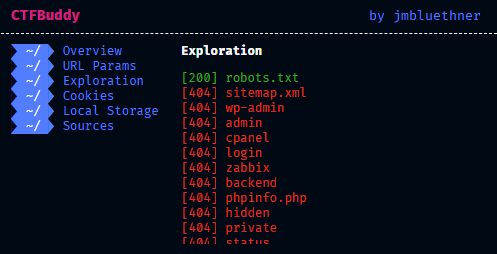
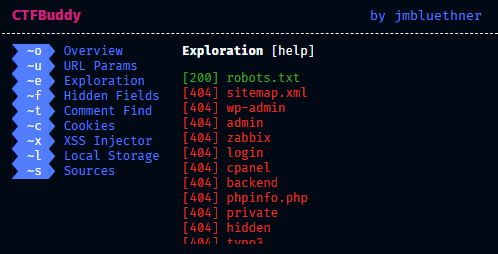
docs

diff --git a/src/index.html b/src/index.html
@@ -5,6 +5,9 @@
         <meta lang="en">
     </head>
     <body>
+        <input type="hidden">
+        <input type="hidden">
+        <input type="hidden">
         <div id="main"></div>
         <script src="./lib/vue/vue.global.js"></script>
         <script src="./lib/vue/vue-router.global.js"></script>

diff --git a/README.md b/README.md
@@ -5,9 +5,7 @@ _by jmbluethner_
 
 ---
 
-<img src="./docs/ss1.png">
-
-[[_TOC_]]
+<img src="./docs/montage.png">
 
 # Project Aim
 
@@ -19,14 +17,20 @@ In order to make those basic tasks a bit easier and to save you from repeating t
 # Features
 
 - One-Click-Analytics tools for
-  - Automatic Sub-Page exploration for common pages, such as `robots.txt`, `wp-admin` and so on.
-  - Automatic reporting and analysis for URL (GET) Parameters.
+  - Sub-Page exploration for common pages, such as `robots.txt`, `wp-admin` and so on.
+  - Reporting and analysis for URL (GET) Parameters.
+  - Finder for hidden input fields.
   - Detailed Cookie analysis.
   - Detailed Local Storage analysis.
   - Checks for all embedded sources, such as JS.
   - XSS Injection tester.
-- Stylish CLI look
+  - HTML Comment finder.
+- Stylish CLI look.
+- Menu navigation using keyboard shortcuts.
+- Explaining help texts for each module.
+- Solid codebase built on <a href="https://vuejs.org/">Vue.JS</a>.
 
 ---
 
-_Developed with ♥ and ☕ by jmbluethner_
+_Developed with ♥ and ☕ by jmbluethner_  
+_Built with <a href="https://vuejs.org/">Vue.JS</a>_
